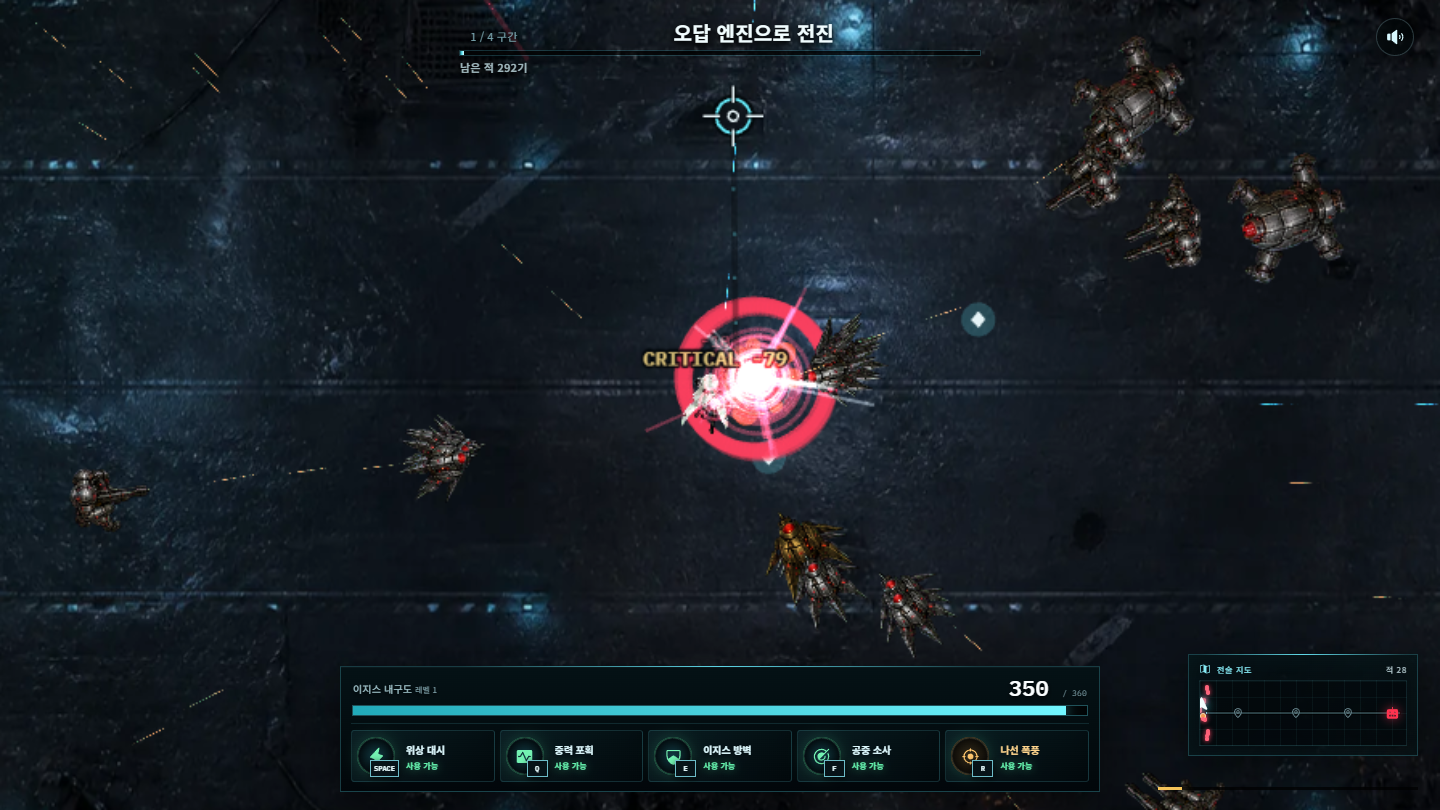
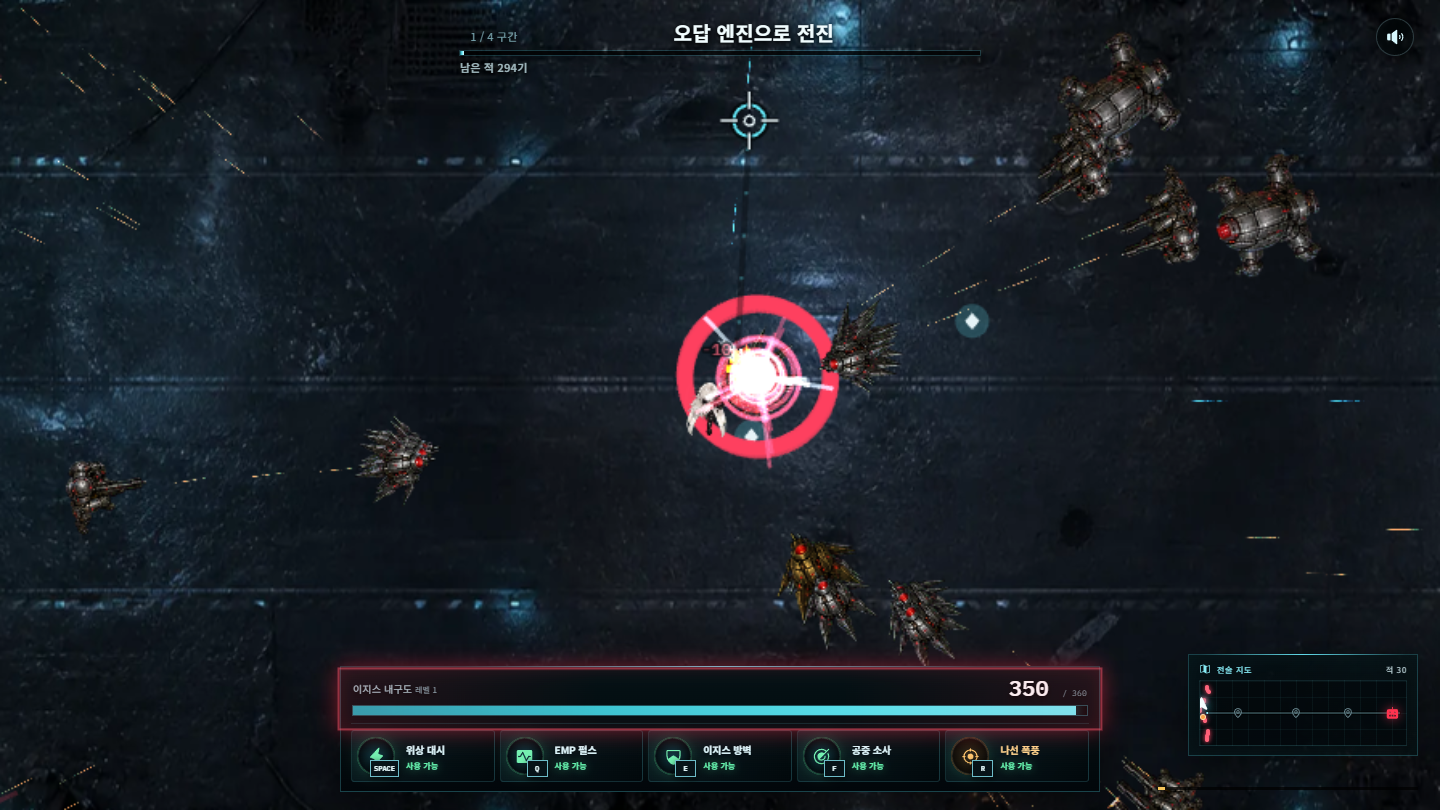
test: refresh end-to-end campaign QA

diff --git a/game/design-qa.md b/game/design-qa.md
@@ -284,7 +284,33 @@
   Latin 전용 10개 약 139.1KiB로 줄었으며 Phaser vendor는 1,684.94kB raw/381.36kB gzip의
   독립 지연 청크를 유지합니다. `http://127.0.0.1:4174/` 서버는 HTTP 200으로 계속 실행 중입니다.
 
-## 현재 판단 — Iteration 12 passed
+### Iteration 13 — passed
+
+- 시작 화면을 헤이븐-09 캠페인 진입점으로 다시 정리하고 전용 3상태 지휘 버튼 아틀라스와
+  hover/확인/닫기 절차적 UI 효과음을 연결했습니다. 새 슬롯은 전투 캔버스를 만들지 않고 기지의
+  NPC 안내 대화에서 시작하며, 저장 슬롯 선택 뒤 곧바로 전장에 투입되던 경로는 제거했습니다.
+- HANA 연구실과 ILYA 정비소는 자원·현재/다음 효과·랭크·구매 가능 상태를 더 큰 한국어 본문으로
+  보여 줍니다. NPC 대화, 시설, 구역 상세는 `ESC`로 한 단계씩 닫히고, 실제 Edge에서 연구실
+  본문 14px와 ESC 닫기를 확인했습니다.
+- NIGHTJAR 비행선과 세 지역을 새 v2 작전 지도에 통합했습니다. 구역 hover/focus는 카드와 해당
+  전장 배경을 확대하며, 카드를 눌러도 즉시 전투하지 않고 적 조합·보스 패턴·목표·보상을 담은
+  상세 창을 엽니다. 별도 `출격 준비 완료 · 작전 시작` 승인 뒤에만 첫 전술 가이드와 Phaser를
+  시작합니다.
+- Q는 기존 중력 포획을 완전히 폐기한 `EMP PULSE`입니다. 포인터 중심 반경 300 안의 일반 기계를
+  3.6초, 엘리트를 1.8초 정지시키되 적·투사체 위치를 당기거나 휘지 않으며 직접 피해도 주지
+  않습니다. 수동 스킬 시트의 Q 행과 가이드 실전 크롭도 신규 EMP 도트 애니메이션으로 교체했습니다.
+- 모든 일반 적 파괴는 6프레임 64px NEAREST 도트 폭발 시트를 사용합니다. 이 표현은 기존
+  `enemyBurst` 좌표와 수명만 소비하고 권위 있는 사망·피해·드롭 판정은 계속 결정론 엔진이 소유합니다.
+- 활성 매니페스트에서 끊긴 public 자산 7개와 복원 금지 상태였던 `survivor/`·`adversarial/`
+  프로토타입 소스/전용 테스트 13개를 제거했습니다. 총 20개·3,369,381바이트이며 그중 public
+  전송 후보는 3,145,096바이트입니다. ImageGen 원본과 제작 계보는 `reference/source-assets/`에
+  유지했고 모든 제거분은 Git 기록에서 복구할 수 있습니다.
+- 자동 회귀 187/187, Sites 4/4, TypeScript, production build가 통과했습니다. 전체 Edge
+  1440×810·812×375 플레이 QA는 `errors: []`였고, 별도 HTTP 자산 추적에서도 실패 응답 0건을
+  확인했습니다. 새 슬롯 기지 시작, NPC/시설, 구역 hover 확대, 상세 단계의 전투 미생성, 명시적
+  출격 승인, EMP 키보드·모바일 터치, 화자별 초상화와 한국어 서체를 모두 실제 조작했습니다.
+
+## 현재 판단 — Iteration 13 passed
 
 - Iteration 11까지의 저사양 PERFORMANCE 기준선과 회귀 결과는 유효합니다.
 - 시작 화면은 제공된 원본을 충실히 보존하며 필요한 정보만 표시함.
@@ -306,5 +332,5 @@
   출격 수치에 연결됨.
 - Phaser는 전투 진입 때만 내려오고 선택 지역의 일반 전장과 보스 자산도 두 단계로 지연 로드됨.
 
-final result: passed — 자동 테스트 222/222, TypeScript, production build, Sites 4/4와
+final result: passed — 자동 테스트 187/187, TypeScript, production build, Sites 4/4와
 Edge 1440×810·812×375 플레이 QA(`errors: []`)를 통과했으며 로컬 서버는 계속 실행 중
